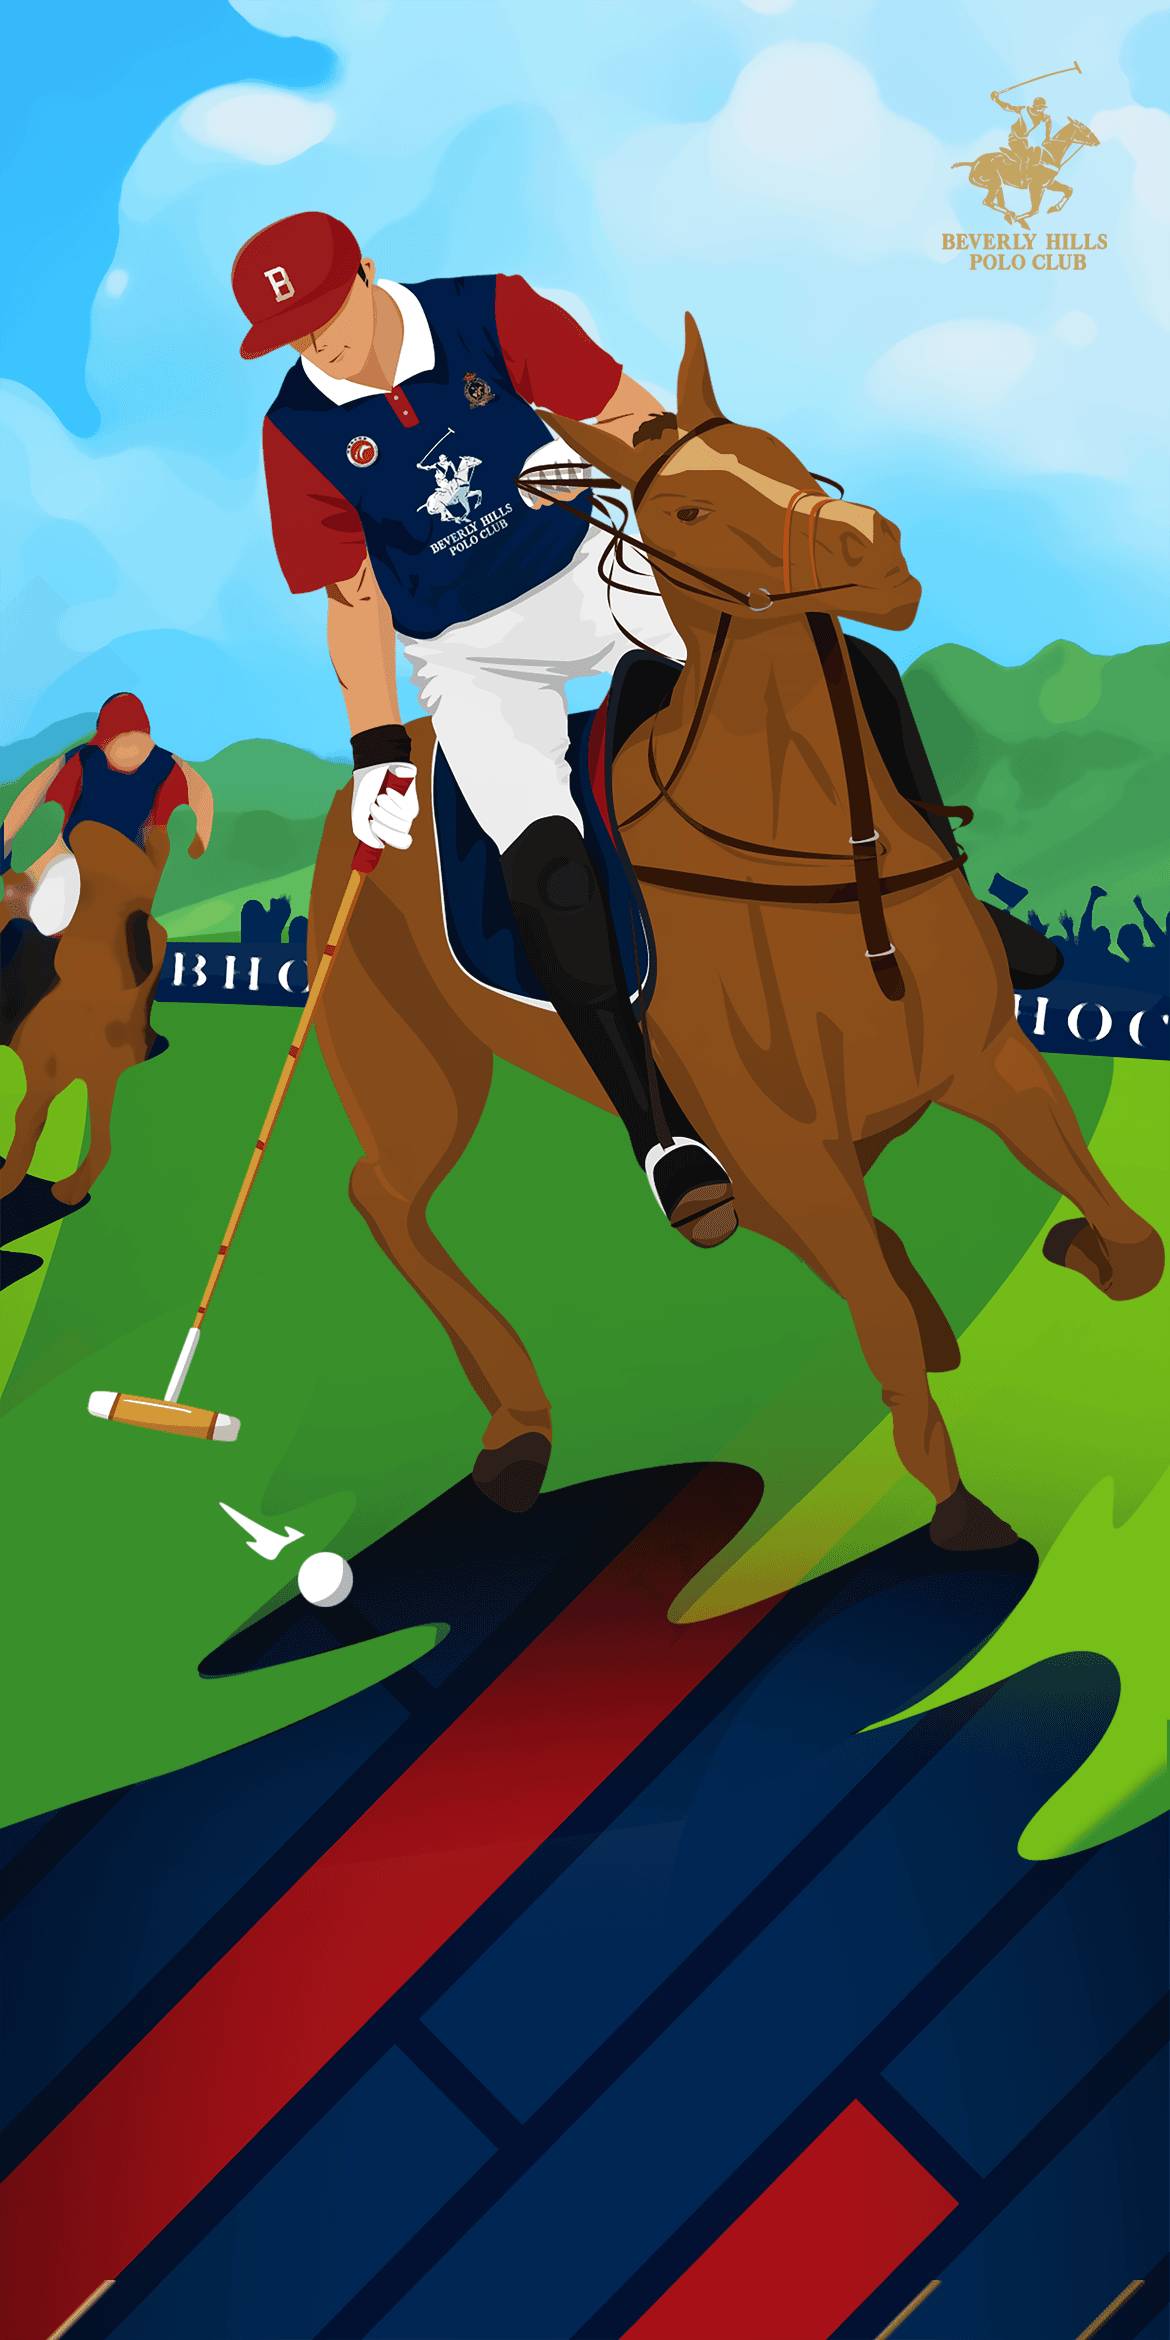
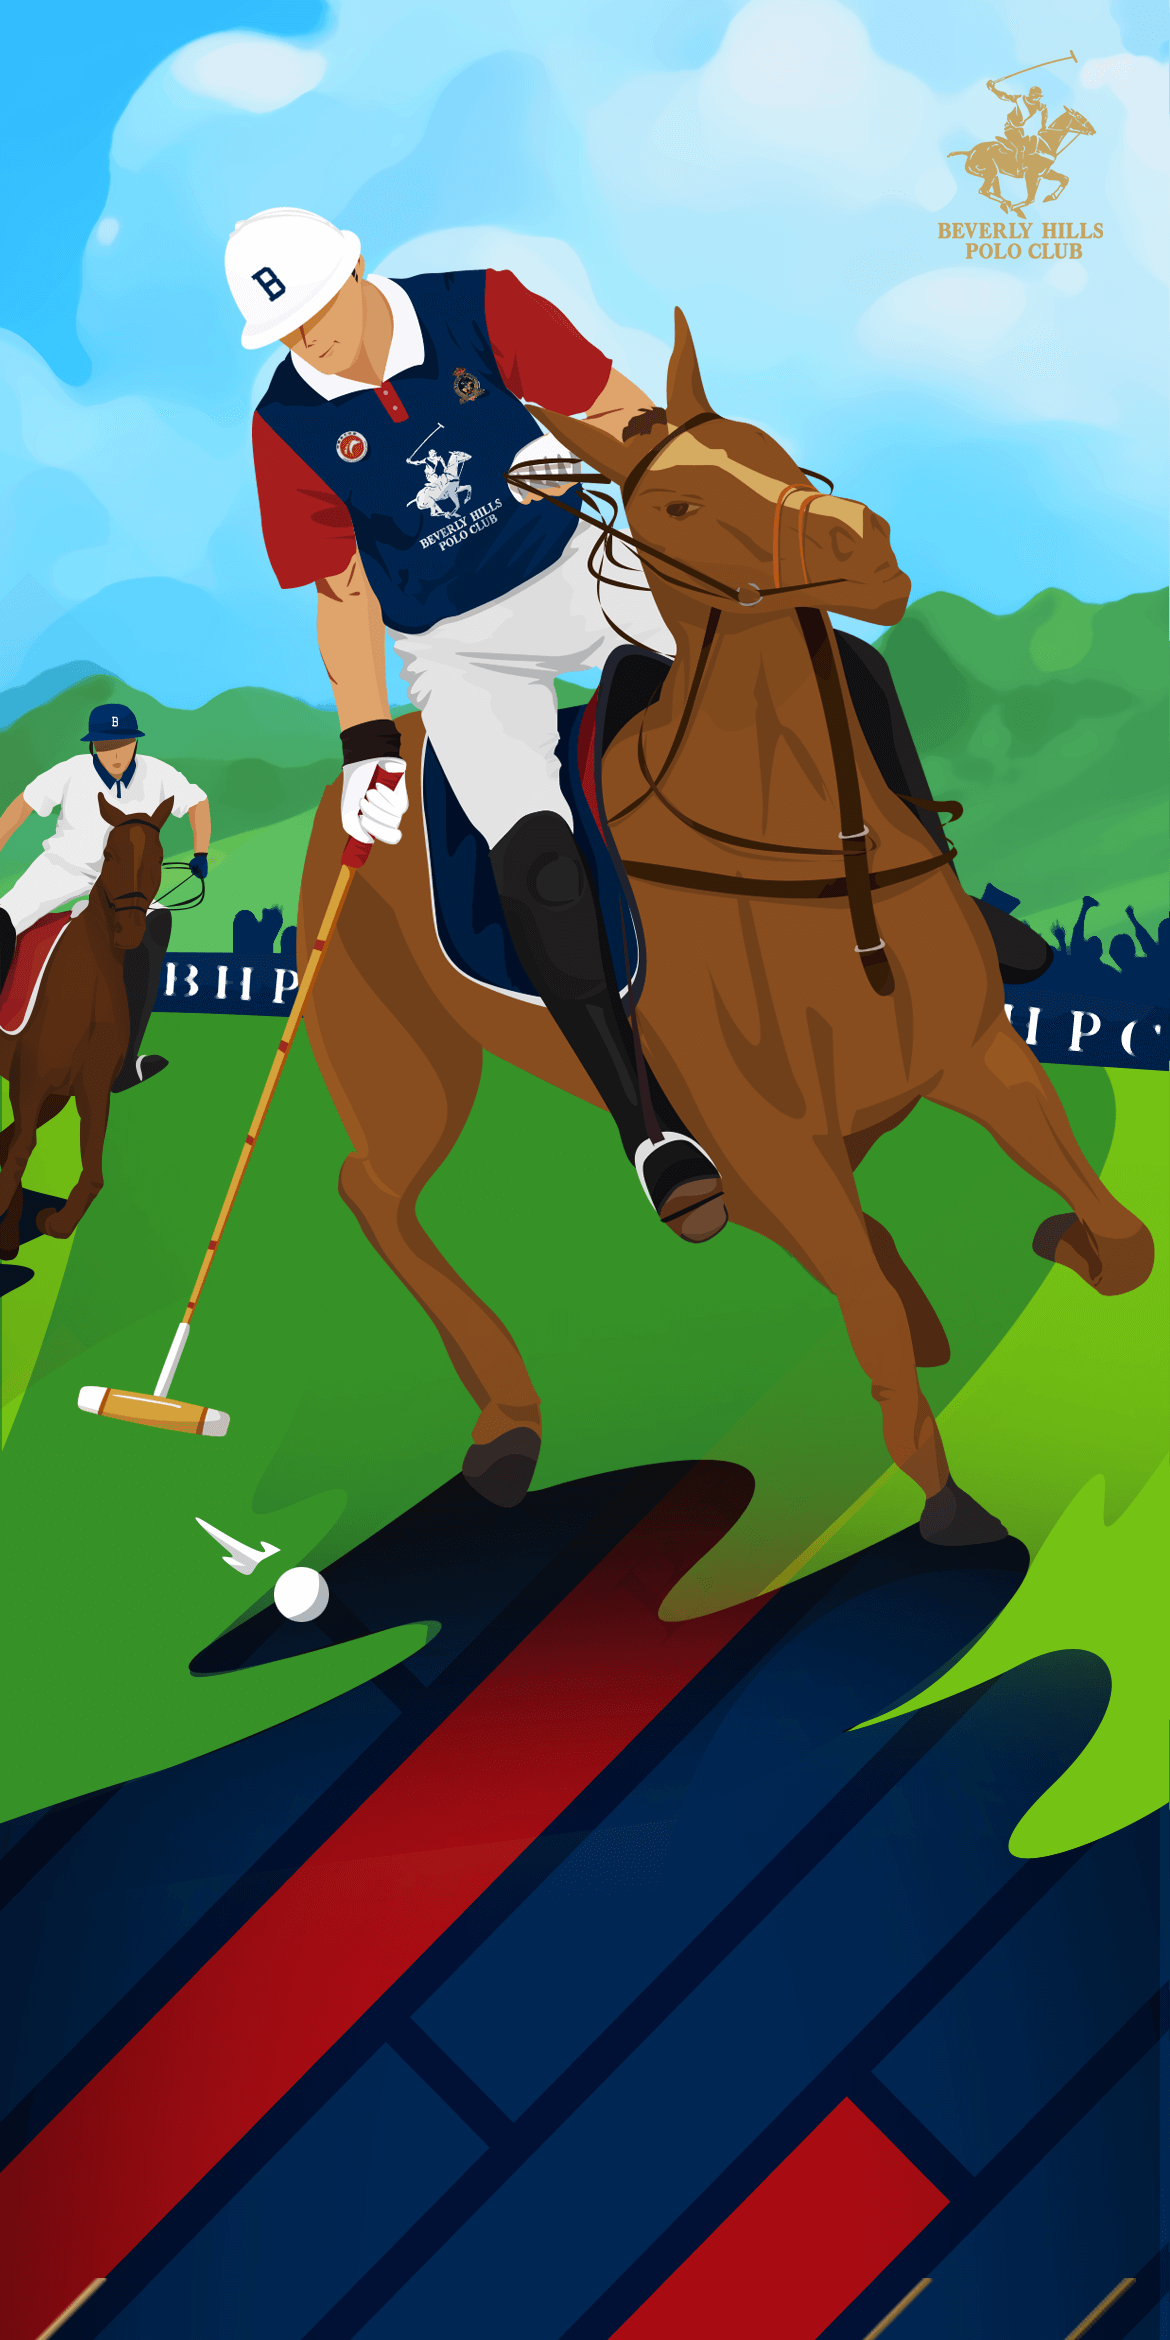
fix: 替换对应的设计搞海报页和首页

diff --git a/src/views/Poster.vue b/src/views/Poster.vue
@@ -1,6 +1,7 @@
 <template>
   <!-- 点击分享-->
-  <div
+  <div>
+<div
     :style="{
       position: 'absolute',
       overflowX: 'hidden',
@@ -20,18 +21,7 @@
     >
     <!-- todo 这里也是 -->
       <img
-        :src="JJ_MAP[KEY].img"
-        :style="{
-          position: 'absolute',
-          left: sc.w * 0.1145 + 'px',
-          top: sc.h * 0.16 + 'px',
-          width: sc.w * 0.2521 + 'px',
-          height: sc.h * 0.1688 + 'px',
-          zIndex: 8,
-        }"
-      />
-      <img
-        src="/poster/bg.png"
+        src="/poster/bg-nologo.jpg"
         :style="{
           position: 'absolute',
           left: 0,
@@ -41,7 +31,7 @@
         }"
       />
       <img
-        src="/poster/poster.png"
+        :src="JJ_MAP[KEY].bg"
         :style="{
           width: parseInt(sc.w) * 0.8871 + 'px',
           height: sc.h * 0.7876 + 'px',
@@ -49,63 +39,16 @@
           left: 0,
           right: 0,
           margin: 'auto',
-          top: sc.h * 0.1483+ 'px',
-        }"
-      />
-      <img
-        src="/poster/get-poster-text.png"
-        :style="{
-          position: 'absolute',
-          left: 0,
-          right: 0,
-          margin: 'auto',
-          bottom: sc.h * 0.2564 + 'px',
-          width: sc.w * 0.32 + 'px',
-          height: sc.h * 0.038 + 'px',
-          zIndex: 9
+          top: sc.h * 0.1483 - 30 + 'px',
         }"
       />
     
-      <div :style="{
-          bottom: sc.h * 0.1417+ 'px',
-          position: 'absolute',
-          width: sc.w * 0.6385 + 'px',
-          height: sc.h * 0.0889 + 'px',
-          left: 0,
-          right: 0,
-          margin: 'auto',
-          background:'url(/poster/squre.png) no-repeat',
-          backgroundSize: `${sc.w * 0.6385 + 'px'} ${sc.h * 0.0889 + 'px'}`,
-          display: 'flex',
-          alignItems: 'center'
-      }">
-        <img
-        :src="JJ_MAP[KEY].icon"
-        :style="{
-          width: sc.w * 0.1486 + 'px',
-          height: sc.h * 0.0745 + 'px',
-          marginLeft: '16px'
-
-        }"
-      />
-      <!-- todo 这里也是 -->
-      <div
-        :style="{
-          fontWeight: 500,
-          fontSize: '30.34px',
-          color: '#FFFFFF',
-          marginLeft: '24px'
-        }"
-      >
-        {{JJ_MAP[KEY].name}}
-      </div>
-      </div>
       <!-- todo 图标 金银铜 此处需要变量改变显示的金银 -->
         <img
         src="/poster/btn-award.png"
         :style="{
           position: 'absolute',
-          bottom: '5.43%',
+          bottom: 'calc(5.43% + 30px)',
           width: sc.w * 0.3829 + 'px',
           height: sc.h * 0.0731 + 'px',
           left: sc.w * 0.11 + 'px',
@@ -116,42 +59,17 @@
         src="/poster/btn-share.png"
         :style="{
           position: 'absolute',
-          bottom: '5.43%',
+          bottom: 'calc(5.43% + 30px)',
           right: sc.w * 0.1248 + 'px',
           width: sc.w * 0.3829 + 'px',
           height: sc.h * 0.0731 + 'px',
+          zIndex: 9
         }"
-        @click="modalShare = true"
+        @click="modalStatus = true"
       />
     </div>
   </div>
-   <div
-      v-if="modalShare"
-      @click="modalShare = false"
-      :style="{
-        width: sc.w + 'px',
-        height: sc.h + 'px',
-        background: 'rgba(0,0,0, 0.77)',
-        position: 'fixed',
-        left: 0,
-        top: 0,
-        zIndex: 9,
-      }"
-    >
-      <img
-        src="/poster/share-bg.png"
-        :style="{
-          width: sc.w * 0.67 + 'px',
-          height: sc.h * 0.3333 + 'px',
-          position: 'absolute',
-          left: 0,
-          right: 0,
-          margin: 'auto',
-          top: sc.h * 0.0756 + 'px',
-          zIndex: 10,
-        }"
-      />
-    </div>
+
   <div
     v-if="modalStatus"
     :style="{
@@ -161,7 +79,7 @@
       position: 'fixed',
       left: 0,
       top: 0,
-      zIndex: 9,
+      zIndex: 99999,
     }"
     @click="modalStatus = false"
   >
@@ -230,6 +148,8 @@
     </div>
 
   </div>
+  </div>
+  
 </template>
 <script setup>
 import { ref, onMounted, watch } from "vue";
@@ -237,47 +157,40 @@ import { useRouter } from "vue-router";
 const poster = ref("");
 const router = useRouter();
 const modalStatus = ref(true);
-const modalShare = ref(false);
+
 const sc = ref({
   w: window.innerWidth,
   h: window.innerHeight,
 });
 const KEY = ref('silver')
-// console.log(sc.value.w, sc.value.h)
-// localStorage.setItem('gold', 1)
-//     } else if (score >= 300 && score <= 600) {
-//       localStorage.setItem('silver', 1)
-
-//       silverBadge.visible = true;
-//     } else {
-//       localStorage.setItem('cu', 1)
 const JJ_MAP = ref({
   'gold': {
     name: '金牌奖品',
-    icon: '/poster/金.png',
+    bg: '/poster/金.png',
     img: '/poster/jin.png',
     poster: '/poster/金.jpg'
 
   },
   'silver': {
     name: '银牌奖品',
-    icon: '/poster/银.png',
+    bg: '/poster/银.png',
     img: '/poster/yin.png',
     poster: '/poster/银.jpg'
 
   },
   'cu': {
     name: '铜牌奖品',
-    icon: '/poster/铜.png',
+    bg: '/poster/铜.png',
     img: '/poster/tong.png',
     poster: '/poster/铜.jpg'
   },
   'empty': {
     name: '暂无奖品',
-    // icon: 
+    // bg: 
   }
 })
 watch(()=> router.currentRoute.value.path, ()=>{
+  console.log('modalStatus', modalStatus)
     modalStatus.value = true;
     console.log(router.currentRoute._value.query.score)
     let score = router.currentRoute._value.query.score
